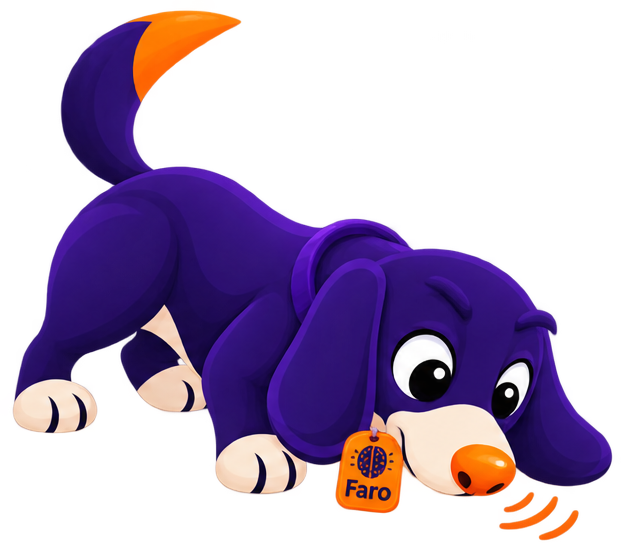
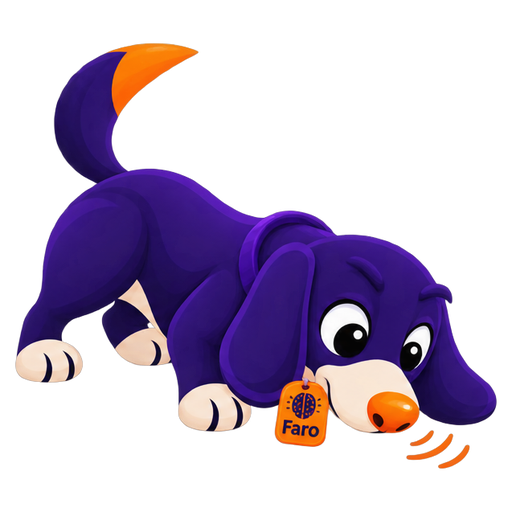
Add 5 new mascot moods and wire them into existing empty/loading states
Normalized proud/yawning/winking/playful/searching to 512x512 (same
pipeline as the original 4: alpha-bbox crop + square canvas + LANCZOS),
matching the existing assets' framing.

Placement, reusing existing Mascot/EmptyState call sites rather than
inventing new ones:
- StudyPage "Sessão concluida" -> proud (was cheer)
- StudyPage "Nada vencido por hoje" -> yawning (was sleepy; frees sleepy
  up to keep meaning "erro/acesso negado" consistently elsewhere)
- QuizPage "Quiz concluido" -> winking (was cheer)
- QuizPage/GeneratePage busy state -> searching (was cheer; sniffing fits
  "trabalhando" better than a celebration pose)
- HelpPage intro -> playful (was search)

The existing "search" mood (sitting, pensive) is kept distinct from the
new "searching" (crouched, sniffing) -- different enough moods to serve
different contexts rather than one replacing the other.

EmptyState's mood prop now reuses Mascot's exported MascotMood type
instead of a hand-duplicated union that would've drifted.

mascot-pointing.png was also uploaded but isn't wired in yet -- it has a
non-transparent glow background and a "FARO STOOT" tag (typo/different
branding) unlike the other assets; holding off until confirmed.

Claude-Session: https://claude.ai/code/session_018ctzkqckDvwK3We8mhrdjp

diff --git a/src/components/Mascot.tsx b/src/components/Mascot.tsx
@@ -3,13 +3,27 @@
  * Renderizado em pontos estrategicos: login, empty states, loading e logo.
  * SEMPRE com alt text (checklist produção #9).
  */
-type MascotMood = "default" | "search" | "sleepy" | "cheer";
+export type MascotMood =
+  | "default"
+  | "search"
+  | "sleepy"
+  | "cheer"
+  | "proud"
+  | "yawning"
+  | "winking"
+  | "playful"
+  | "searching";
 
 const MOOD_SRC: Record<MascotMood, string> = {
   default: "/mascot-default.png",
   search: "/mascot-search.png",
   sleepy: "/mascot-sleepy.png",
   cheer: "/mascot-cheer.png",
+  proud: "/mascot-proud.png",
+  yawning: "/mascot-yawning.png",
+  winking: "/mascot-winking.png",
+  playful: "/mascot-playful.png",
+  searching: "/mascot-searching.png",
 };
 
 const SIZES = { sm: 40, md: 96, lg: 160, xl: 220 } as const;
@@ -24,9 +38,14 @@ interface MascotProps {
 
 const MOOD_ALT: Record<MascotMood, string> = {
   default: "Faro, o mascote basset hound do Faro Study",
-  search: "Faro farejando novos cards para estudar",
+  search: "Faro pensativo, esperando você começar",
   sleepy: "Faro descansando enquanto seus cards carregam",
   cheer: "Faro comemorando sua sequência de estudos",
+  proud: "Faro orgulhoso do seu progresso",
+  yawning: "Faro bocejando, sem nada pendente agora",
+  winking: "Faro piscando, com uma dica",
+  playful: "Faro brincando, perseguindo uma borboleta",
+  searching: "Faro farejando o chão, procurando algo",
 };
 
 export function Mascot({ size = "md", mood = "default", className, alt }: MascotProps) {

diff --git a/src/features/quiz/QuizPage.tsx b/src/features/quiz/QuizPage.tsx
@@ -317,7 +317,7 @@ export default function QuizPage() {
       {busy ? (
         <div className="space-y-3">
           <div className="flex items-center gap-3">
-            <Mascot mood="cheer" size="sm" alt="Faro animado, preparando o quiz" />
+            <Mascot mood="searching" size="sm" alt="Faro farejando, preparando o quiz" />
             <p className="text-sm text-slate-muted">O Faro está preparando as perguntas...</p>
           </div>
           <Skeleton className="h-32 w-full" />
@@ -421,7 +421,7 @@ export default function QuizPage() {
 
       {!current && items.length > 0 && !busy ? (
         <EmptyState
-          mood="cheer"
+          mood="winking"
           title="Quiz concluido"
           description={`Você acertou ${score.correct} de ${score.total}. Os resultados já foram para o seu painel.`}
           action={

diff --git a/src/features/study/StudyPage.tsx b/src/features/study/StudyPage.tsx
@@ -266,7 +266,7 @@ export default function StudyPage() {
         </div>
       ) : done.reviewed > 0 ? (
         <EmptyState
-          mood="cheer"
+          mood="proud"
           title="Sessão concluida"
           description={`Você revisou ${done.reviewed} cards com ${Math.round(
             (done.correct / done.reviewed) * 100,
@@ -282,7 +282,7 @@ export default function StudyPage() {
         />
       ) : (
         <EmptyState
-          mood="sleepy"
+          mood="yawning"
           title="Nada vencido por hoje"
           description="O Faro não encontrou cards vencidos para revisar agora. Gere novos cards ou volte depois."
           action={

diff --git a/src/features/help/HelpPage.tsx b/src/features/help/HelpPage.tsx
@@ -85,7 +85,7 @@ export default function HelpPage() {
 
       {/* O que é o app */}
       <section className="mb-10 flex flex-wrap items-center gap-6 rounded-md border border-hairline bg-elevated p-6">
-        <Mascot size="md" mood="search" alt="" />
+        <Mascot size="md" mood="playful" alt="" />
         <div className="min-w-0 flex-1">
           <h2 className="font-display text-lg text-paper">O que é o Faro Study</h2>
           <p className="mt-1.5 text-sm leading-relaxed text-slate-muted">

diff --git a/src/features/ai/GeneratePage.tsx b/src/features/ai/GeneratePage.tsx
@@ -277,7 +277,7 @@ export default function GeneratePage() {
       {busy ? (
         <div className="mt-6 space-y-3">
           <div className="flex items-center gap-3">
-            <Mascot mood="cheer" size="sm" alt="Faro animado, gerando seus cards" />
+            <Mascot mood="searching" size="sm" alt="Faro farejando, gerando seus cards" />
             <p className="text-sm text-slate-muted">O Faro está montando seus cards...</p>
           </div>
           <div className="space-y-2">

diff --git a/src/components/EmptyState.tsx b/src/components/EmptyState.tsx
@@ -3,12 +3,12 @@
  * Ex: "Você não tem cards para revisar hoje, que tal criar um?"
  */
 import type { ReactNode } from "react";
-import { Mascot } from "./Mascot";
+import { Mascot, type MascotMood } from "./Mascot";
 
 interface EmptyStateProps {
   title: string;
   description: string;
-  mood?: "search" | "sleepy" | "cheer";
+  mood?: MascotMood;
   action?: ReactNode;
 }
 
